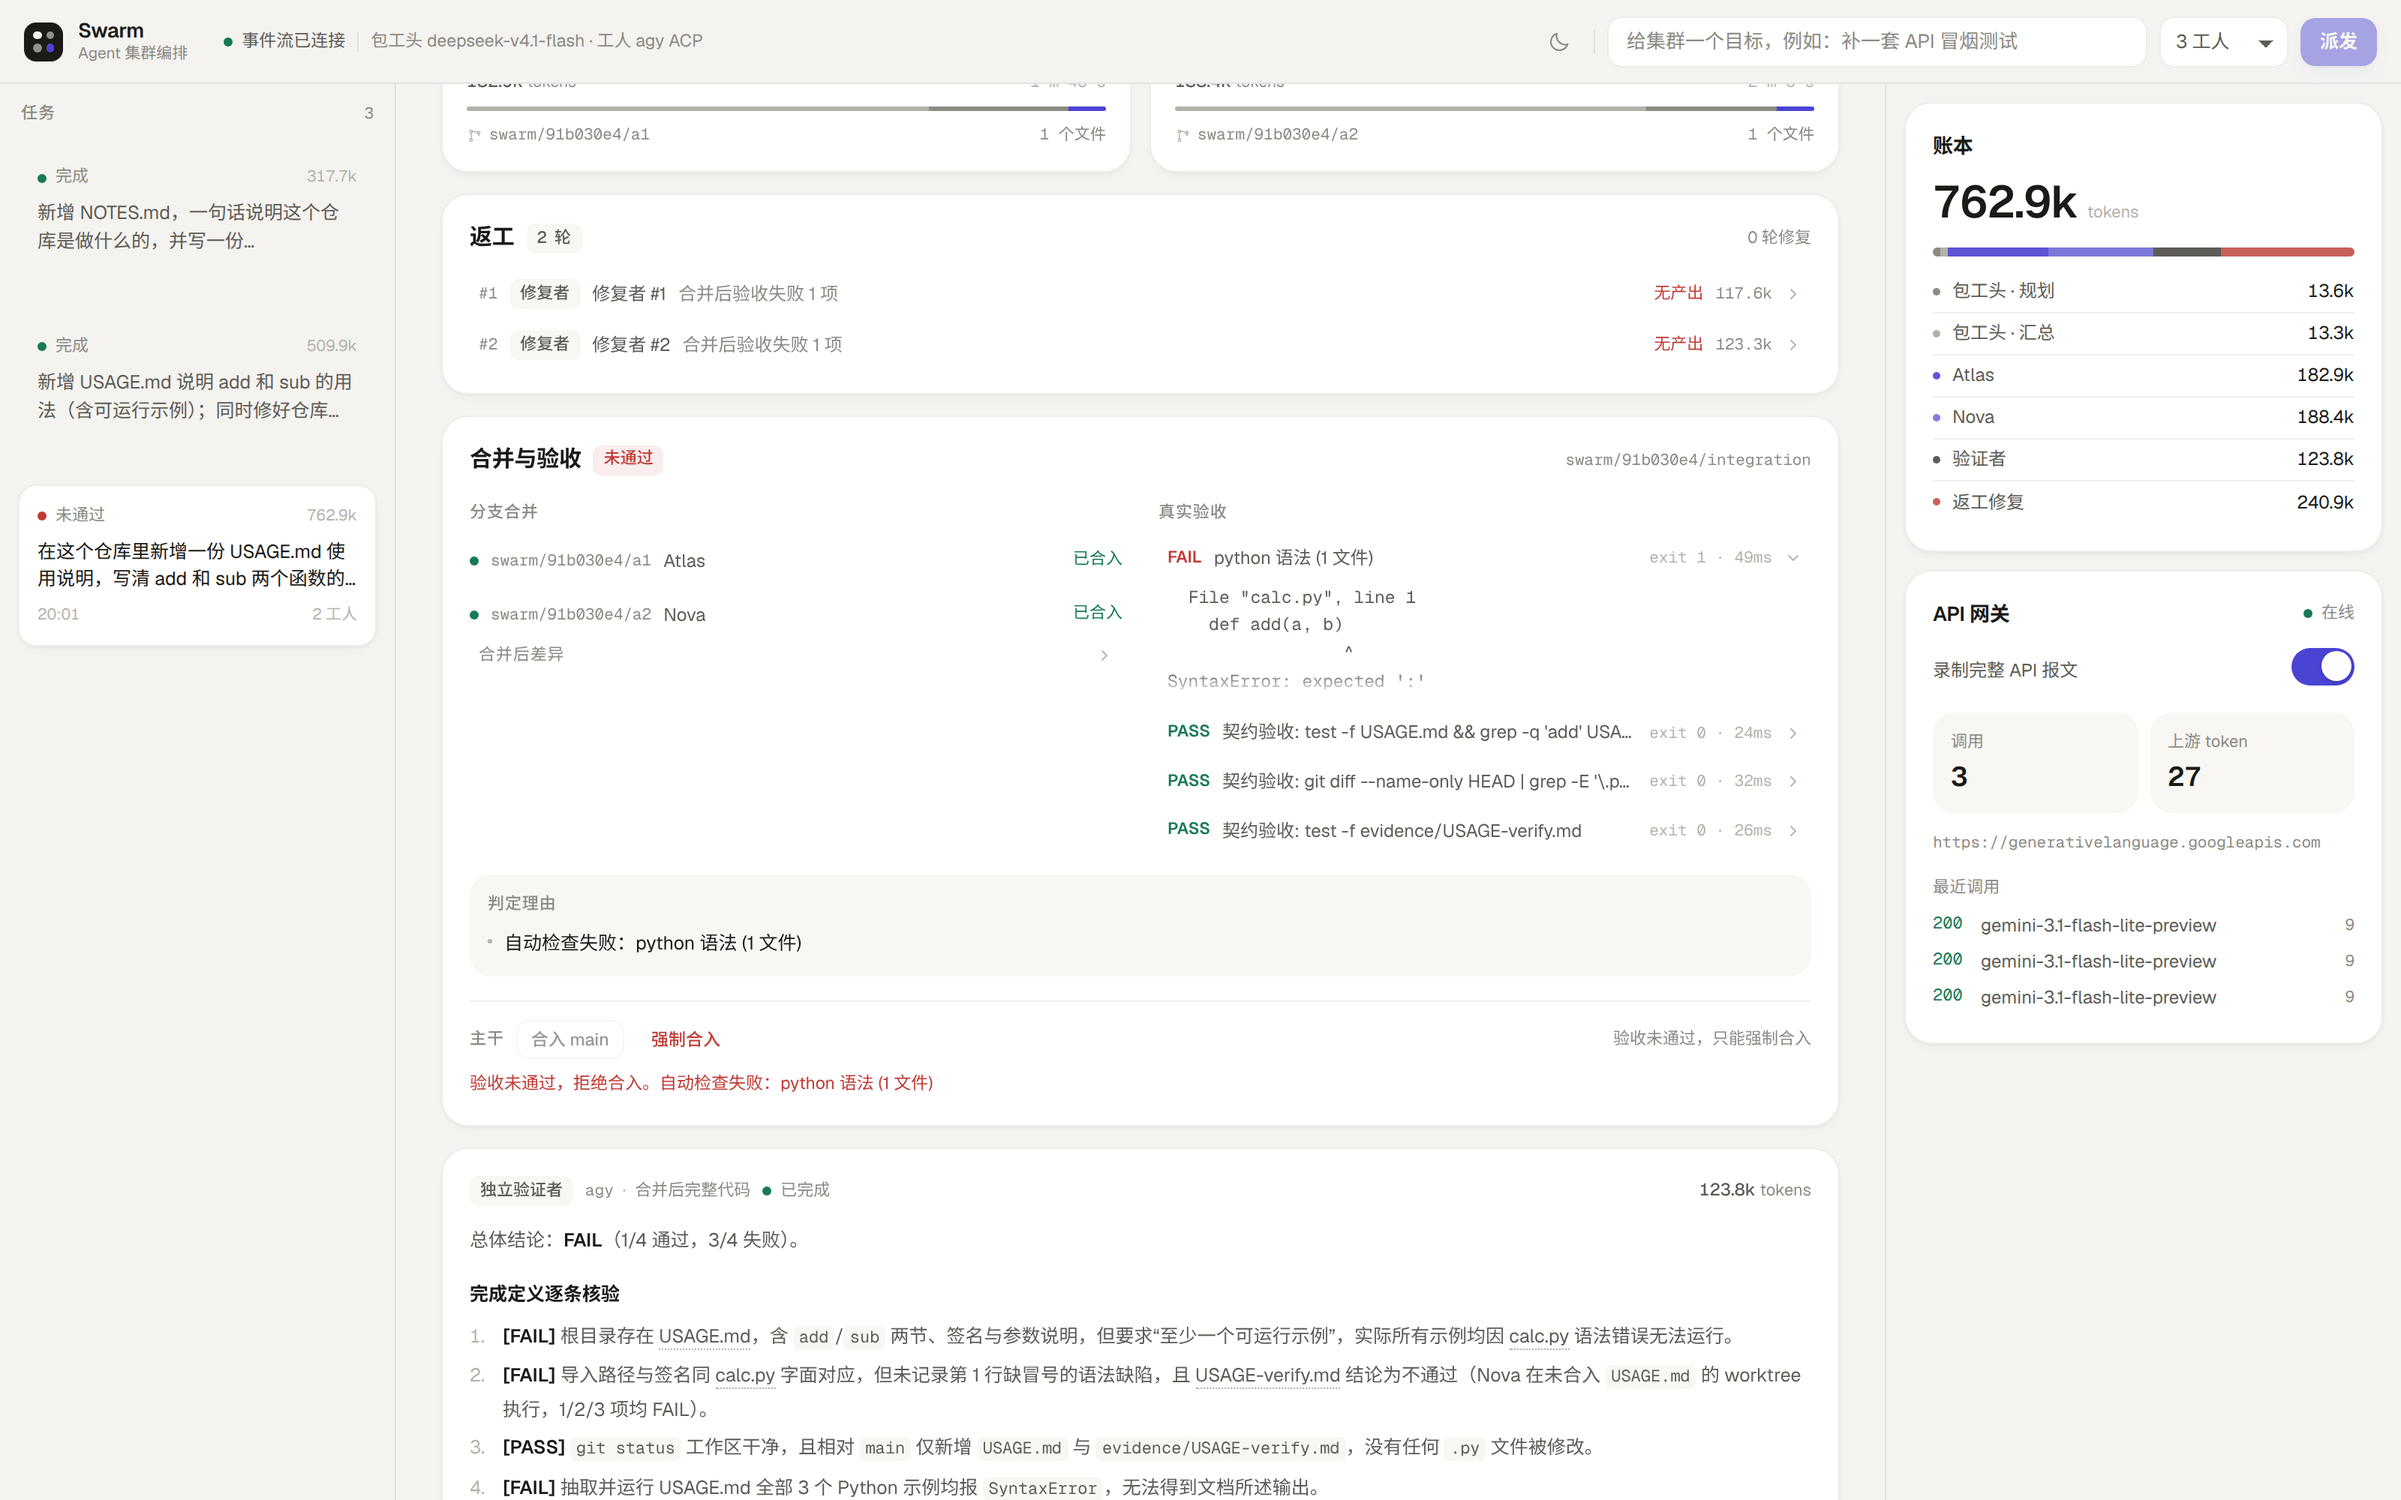
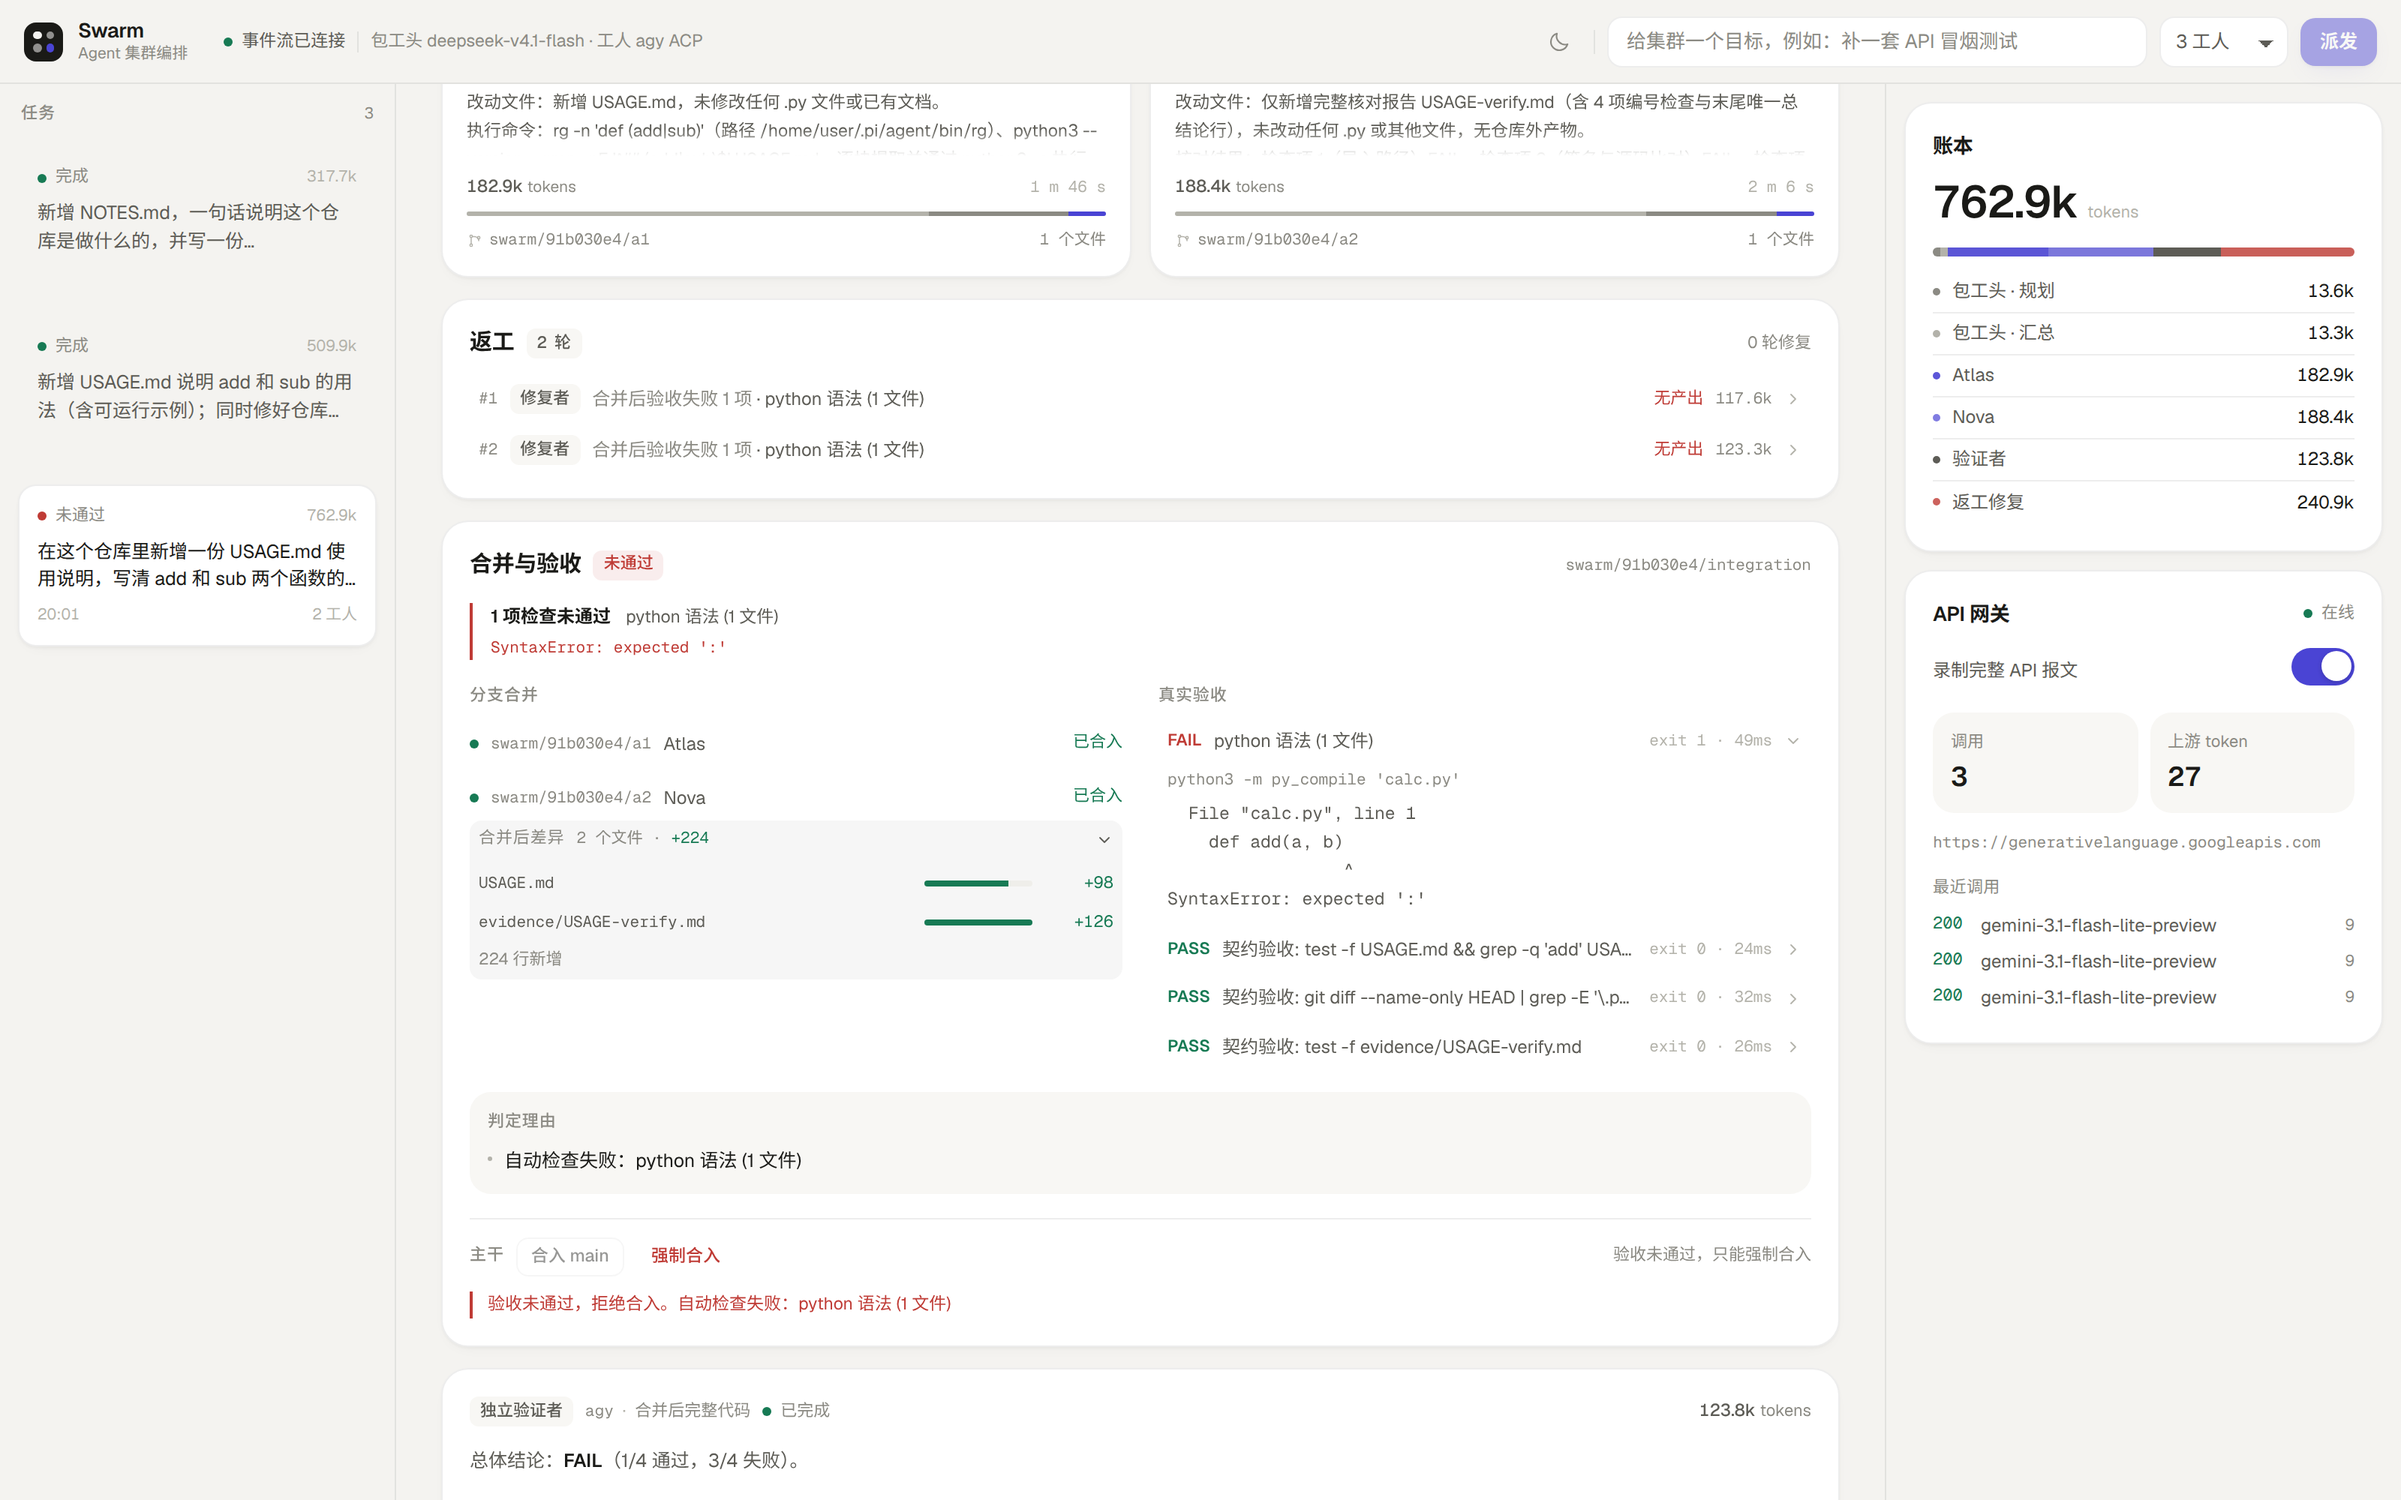
ui(verification): 失败结论先行，差异结构化
- 验收卡片顶部直接给出失败项、检查名与错误首行
- 合并后差异改成文件表：按比例分段条、变更行数、中文汇总
- 检查展开时同时给真实命令与原始输出，冲突行直接显示原因
- 返工每一轮标出触发它的检查项，形成从失败到返工的因果链
- 截图与 README / DESIGN 同步

diff --git a/components/console/VerificationSection.tsx b/components/console/VerificationSection.tsx
@@ -20,6 +20,137 @@ const MERGE_STATUS: Record<
   skipped: { tone: "neutral", label: "跳过", color: "var(--ink-3)" },
 };
 
+/* 从检查输出里挑出最能说明问题的一行；挑不到就取第一行非空内容 */
+function firstProblem(output: string) {
+  const lines = (output || "")
+    .split("\n")
+    .map((l) => l.trim())
+    .filter(Boolean);
+  if (!lines.length) return "";
+  const hit =
+    lines.find((l) => /error|exception|traceback|fail|expected|no such file|not found|missing|denied/i.test(l)) ||
+    lines[0];
+  return hit.length > 180 ? hit.slice(0, 180) + "…" : hit;
+}
+
+type DiffRow = { path: string; total: number; plusChars: number; minusChars: number };
+
+function parseDiff(text: string) {
+  const rows: DiffRow[] = [];
+  let summary = "";
+  let insertions = 0;
+  let deletions = 0;
+  for (const line of text.split("\n")) {
+    if (/files? changed/.test(line)) {
+      summary = line.trim();
+      const im = /(\d+) insertions?/.exec(line);
+      const dm = /(\d+) deletions?/.exec(line);
+      insertions = im ? Number(im[1]) : 0;
+      deletions = dm ? Number(dm[1]) : 0;
+      continue;
+    }
+    const m = /^\s*(.+?)\s*\|\s*(.*)$/.exec(line);
+    if (!m) continue;
+    const path = m[1].trim();
+    const rest = m[2].trim();
+    const num = /^(\d+)\s*(.*)$/.exec(rest);
+    if (!num) {
+      // 二进制文件（Bin 0 -> 123 bytes）或无法解析的统计
+      rows.push({ path, total: 0, plusChars: 0, minusChars: 0 });
+      continue;
+    }
+    const bar = num[2].trim();
+    rows.push({
+      path,
+      total: Number(num[1]),
+      plusChars: (bar.match(/\+/g) || []).length,
+      minusChars: (bar.match(/-/g) || []).length,
+    });
+  }
+  return rows.length ? { rows, summary, insertions, deletions } : null;
+}
+
+function diffTone(rows: DiffRow[]) {
+  const plusOnly = rows.every((r) => r.minusChars === 0);
+  const minusOnly = rows.every((r) => r.plusChars === 0);
+  const total = rows.reduce((n, r) => n + r.total, 0);
+  return {
+    label: plusOnly ? `+${total}` : minusOnly ? `−${total}` : `${total} 行`,
+    color: plusOnly ? "var(--ok)" : minusOnly ? "var(--bad)" : "var(--ink-2)",
+  };
+}
+
+function DiffStat({ text }: { text: string }) {
+  const diff = parseDiff(text);
+  if (!diff) {
+    return (
+      <pre className="stream mono" style={{ marginTop: 8, maxHeight: 180, overflow: "auto" }}>
+        {text}
+      </pre>
+    );
+  }
+  const maxTotal = Math.max(...diff.rows.map((r) => r.total), 1);
+  return (
+    <div style={{ marginTop: 8 }}>
+      {diff.rows.map((r) => {
+        const allPlus = r.minusChars === 0;
+        const allMinus = r.plusChars === 0;
+        const label = allPlus ? `+${r.total}` : allMinus ? `−${r.total}` : `${r.total} 行`;
+        const color = allPlus ? "var(--ok)" : allMinus ? "var(--bad)" : "var(--ink-2)";
+        const ratio = r.plusChars + r.minusChars ? r.plusChars / (r.plusChars + r.minusChars) : 1;
+        return (
+          <div key={r.path} className="flex items-center" style={{ gap: 10, height: 26 }}>
+            <span
+              className="code truncate"
+              title={r.path}
+              style={{ flex: 1, minWidth: 0, color: "var(--ink-2)" }}
+            >
+              {r.path}
+            </span>
+            <span
+              aria-hidden
+              style={{
+                display: "flex",
+                width: 72,
+                height: 4,
+                borderRadius: 999,
+                overflow: "hidden",
+                background: "var(--surface-3)",
+                flex: "none",
+              }}
+            >
+              <i
+                style={{
+                  display: "flex",
+                  width: `${(r.total / maxTotal) * 100}%`,
+                  height: "100%",
+                  minWidth: r.total ? 2 : 0,
+                }}
+              >
+                <i style={{ width: `${ratio * 100}%`, background: "var(--ok)" }} />
+                <i style={{ flex: 1, background: "var(--bad)" }} />
+              </i>
+            </span>
+            <span
+              className="num"
+              style={{ width: 44, textAlign: "right", fontSize: 11, color, flex: "none" }}
+            >
+              {r.total ? label : "bin"}
+            </span>
+          </div>
+        );
+      })}
+      {diff.summary && (
+        <div style={{ marginTop: 4, fontSize: 11, color: "var(--ink-3)" }}>
+          {[diff.insertions ? `${diff.insertions} 行新增` : "", diff.deletions ? `${diff.deletions} 行删除` : ""]
+            .filter(Boolean)
+            .join(" · ") || diff.summary}
+        </div>
+      )}
+    </div>
+  );
+}
+
 export function VerificationSection({ task }: { task: Task }) {
   const v = task.verification;
   const verdict = task.verdict;
@@ -42,6 +173,11 @@ export function VerificationSection({ task }: { task: Task }) {
 
   if (!v && !verdict && !task.merge.length) return null;
 
+  const checks = v?.checks || [];
+  const failedChecks = checks.filter((c) => !c.ok);
+  const diff = v?.diffStat ? parseDiff(v.diffStat) : null;
+  const firstFail = failedChecks.length ? firstProblem(failedChecks[0].output) : "";
+
   return (
     <Card style={{ padding: 18 }}>
       <div className="flex items-center gap-2 min-w-0">
@@ -57,6 +193,28 @@ export function VerificationSection({ task }: { task: Task }) {
           ) : null}
         </div>
       </div>
+
+      {failedChecks.length > 0 && (
+        <div style={{ marginTop: 14, borderLeft: "2px solid var(--bad)", paddingLeft: 12 }}>
+          <div className="flex flex-wrap items-baseline" style={{ gap: "2px 10px" }}>
+            <span style={{ fontSize: 12, fontWeight: 600, color: "var(--ink)" }}>
+              {failedChecks.length} 项检查未通过
+            </span>
+            <span style={{ fontSize: 11.5, color: "var(--ink-2)" }}>
+              {failedChecks.map((c) => c.name).join(" · ")}
+            </span>
+          </div>
+          {firstFail && (
+            <div
+              className="mono truncate"
+              title={firstFail}
+              style={{ marginTop: 3, fontSize: 10.5, color: "var(--bad)" }}
+            >
+              {firstFail}
+            </div>
+          )}
+        </div>
+      )}
 
       <div className="grid grid-cols-1 gap-x-6 gap-y-5 min-[900px]:grid-cols-2" style={{ marginTop: 16 }}>
         {/* 分支合并 */}
@@ -108,15 +266,18 @@ export function VerificationSection({ task }: { task: Task }) {
             <Disclosure
               className="rounded-[8px] px-1.5 py-1 transition-colors duration-[120ms] hover:bg-[var(--hover)]"
               summary={
-                <span style={{ ...LABEL, fontWeight: 400 }}>合并后差异</span>
+                <span className="flex items-baseline" style={{ gap: 8 }}>
+                  <span style={{ ...LABEL, fontWeight: 400 }}>合并后差异</span>
+                  {diff && (
+                    <span className="code flex-none">
+                      {diff.rows.length} 个文件 ·{" "}
+                      <span style={{ color: diffTone(diff.rows).color }}>{diffTone(diff.rows).label}</span>
+                    </span>
+                  )}
+                </span>
               }
             >
-              <pre
-                className="stream mono"
-                style={{ marginTop: 8, maxHeight: 180, overflow: "auto" }}
-              >
-                {v.diffStat}
-              </pre>
+              <DiffStat text={v.diffStat} />
             </Disclosure>
           )}
         </div>
@@ -252,7 +413,18 @@ export function VerificationSection({ task }: { task: Task }) {
       </div>
 
       {promote && !promote.ok && (
-        <div style={{ marginTop: 8, fontSize: 11.5, color: "var(--bad)" }}>{promote.detail}</div>
+        <div
+          style={{
+            marginTop: 10,
+            borderLeft: "2px solid var(--bad)",
+            paddingLeft: 10,
+            fontSize: 11.5,
+            lineHeight: 1.6,
+            color: "var(--bad)",
+          }}
+        >
+          {promote.detail}
+        </div>
       )}
     </Card>
   );

diff --git a/components/console/ReworkSection.tsx b/components/console/ReworkSection.tsx
@@ -5,6 +5,12 @@ import type { Task } from "@/lib/types";
 import { RichText } from "./RichText";
 import { fmt } from "./shared";
 
+// 从返工详情里取出触发本轮的具体检查项，比如「python 语法 (1 文件)」
+function roundCause(detail: string) {
+  const m = /\[check\]\s*([^\n—]+)/.exec(detail || "");
+  return m ? m[1].trim() : "";
+}
+
 export function ReworkSection({ task }: { task: Task }) {
   const rounds = task.rework || [];
   if (!rounds.length) return null;
@@ -27,6 +33,7 @@ export function ReworkSection({ task }: { task: Task }) {
         {rounds.map((r, i) => {
           const tokens = r.usage?.totalTokens || 0;
           const isFixer = r.target === "fixer";
+          const cause = roundCause(r.detail);
           return (
             <div
               key={i}
@@ -48,8 +55,9 @@ export function ReworkSection({ task }: { task: Task }) {
                         {r.who}
                       </span>
                     )}
-                    <span className="truncate flex-1" style={{ fontSize: 12, color: "var(--ink-3)", minWidth: 0 }}>
-                      {r.reason}
+                    <span className="truncate flex-1" style={{ fontSize: 12, minWidth: 0 }}>
+                      <span style={{ color: "var(--ink-3)" }}>{r.reason}</span>
+                      {cause && <span style={{ color: "var(--ink-2)" }}> · {cause}</span>}
                     </span>
                     <span className="flex items-center gap-2 flex-none">
                       <span style={{ fontSize: 11, color: r.ok ? "var(--ok)" : "var(--bad)" }}>

diff --git a/DESIGN.md b/DESIGN.md
@@ -38,6 +38,13 @@
 页面底 → 卡片。只有卡片内部确实存在独立子块时才用 `--surface-2`，且不再发射到第二层卡片。
 禁止卡片里再套带边框的卡片。
 
+## 验收呈现
+
+- 结论先行：失败时卡片顶部先给「几项没过 + 检查名 + 错误首行」，完整命令和原始输出再收进展开区。
+- 差异用表格：文件名、按比例的分段条、变更行数；不要直接糊一段 `git diff --stat`。
+- 返工的每一轮要能追溯到触发它的检查项，不能只写「验收失败」。
+- 失败原因用 2px 左规则线标出，不要用整块红底。
+
 ## 交互
 
 - 悬停 120ms，状态变化 180ms，内容出现 320ms；统一 `--ease`。

diff --git a/README.md b/README.md
@@ -73,8 +73,8 @@ SWARM_GATEWAY_URL=http://127.0.0.1:9000 SWARM_GATEWAY_KEY=vk-demo pnpm dev
 
 ![返工与判定](docs/screenshots/console-rework.png)
 
-<sub>目标要求「不要修改任何 .py」，但仓库本身就有一个语法错误的 .py。修复者复现后拒绝改，
-判定如实 FAIL；返工的开销（240.9k）在账本里单独一行，不混进工人花费。</sub>
+<sub>目标要求「不要修改任何 .py」，但仓库本身就有一个语法错误的 .py。卡片顶部直接摊出失败项和错误首行，
+修复者复现后拒绝改，判定如实 FAIL；返工开销（240.9k）在账本里单独一行，不混进工人花费。</sub>
 
 ## 提示词契约
 
